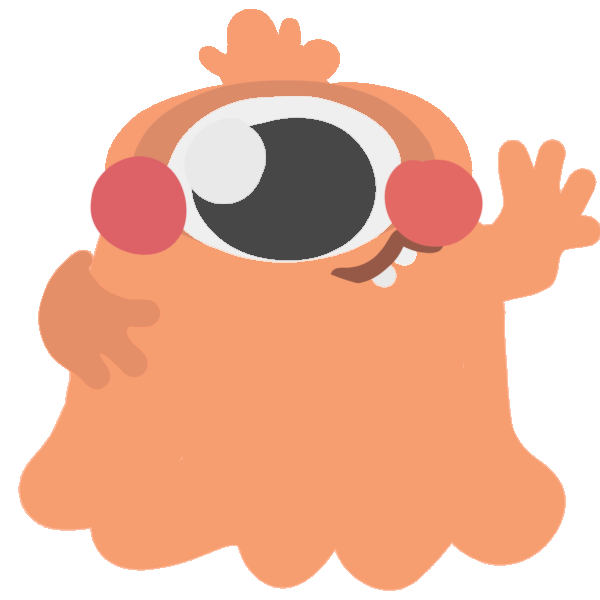
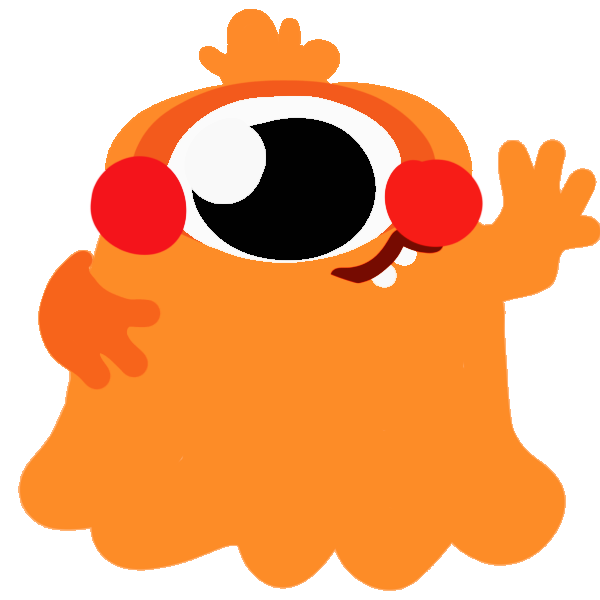
image update

diff --git a/js/game.js b/js/game.js
@@ -149,7 +149,7 @@ class Monster extends Element {
 		if (Math.random() > .5) {
 			this.img.style.transform = 'scaleX(-1)';
 		}
-		let r = Math.floor(Math.random() * 30);
+		let r = Math.floor(Math.random() * 40);
 		this.img.style['-webkit-filter'] = 'hue-rotate(' + r + 'deg)';
 		this.img.style['filter'] = 'hue-rotate(' + r + 'deg)';
 	}
